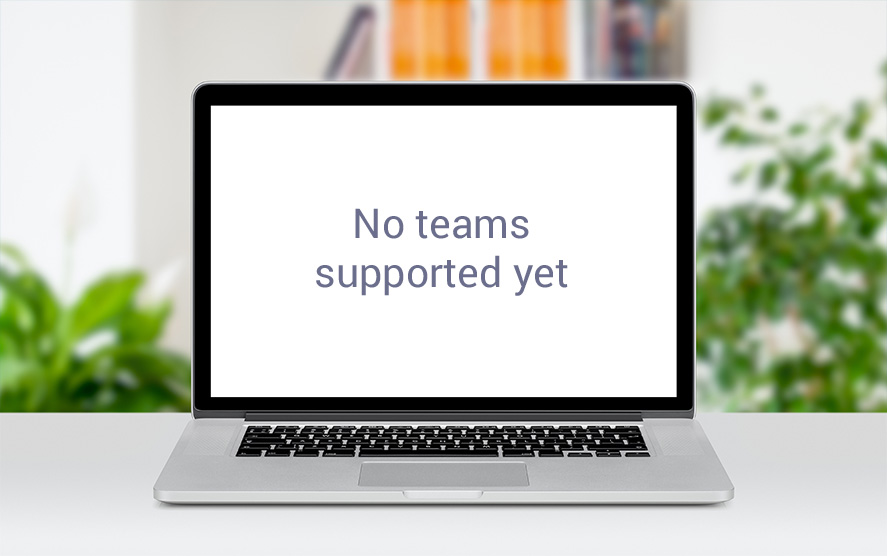
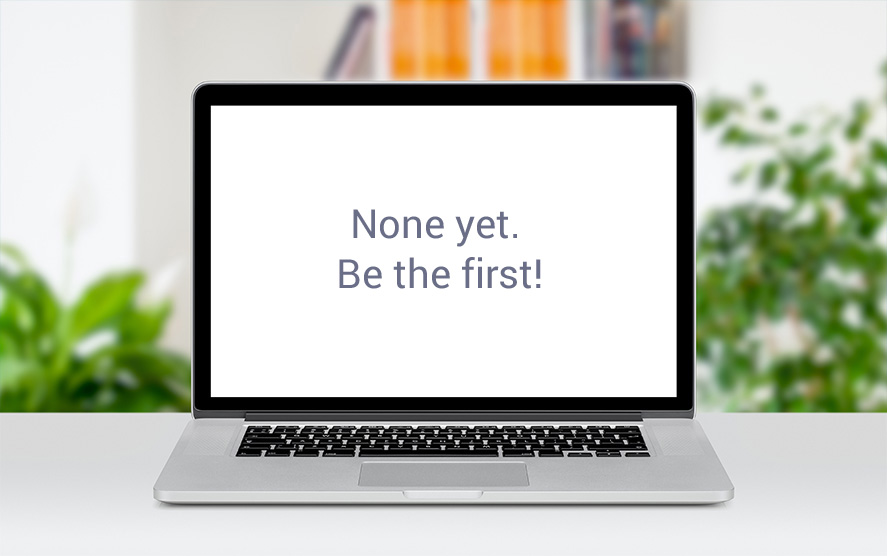
index: Update content

Changed region(s): [[0.3348, 0.4586, 0.6392, 0.5198], [0.3957, 0.3669, 0.6088, 0.4281]]

diff --git a/index.html b/index.html
@@ -64,7 +64,8 @@
             </div>
             <div class="col-1 hidden-xs-down"></div>
             <div class="col-12 col-sm-5 offset-sm-0">
-                <p data-original-title="" title=""><b data-original-title="" title="">Lots of open source teams would love to meet up at conferences or organize sprints on their projects, but for unpaid volunteers, who often spend the daytime studying at university, this often gets stuck at one night of a "wouldn't it be cool…" discussion due to lack of means.&nbsp;</b></p><p data-original-title="" title=""><span style="font-size: 14px;" data-original-title="" title="">We at Kiwi.com decided to create the Sourcelift Fund, which we dedicate to making these meetups happen, to bring communities together, to help boost the progress of FOSS projects, and to reward the tireless contributors with a nice vacation.</span><span style="font-size: 14px;" data-original-title="" title=""></span><span style="font-size: 14px;" data-original-title="" title=""></span></p>
+                <p><b>Most open source teams would love to organise sprints to move their projects forward. They may also dream of attending a specific conference together. However, as they’re often made up of unpaid students, these dreams rarely become a reality.</p>
+                <p class="small">Kiwi.com has decided to do something about this, so we created the SourceLift Fund to bring communities together. By providing flights, we hope to boost the progress of FOSS projects while rewarding tireless contributors with a well-deserved trip at the same time.</p>
             </div>
         </div>
     </div>
@@ -75,24 +76,37 @@
         <h2 class="mb-4">Terms</h2>
         <div class="row">
             <div class="col-12 col-md-6">
-                                    <div class="list-item list-item--circle">
-    <div class="list-item__counter">1</div>
-    <div><p data-original-title="" title="">All applications will be <b data-original-title="" title="">manually judged</b><br data-original-title="" title=""></p></div>
-</div>                                    <div class="list-item list-item--circle">
-    <div class="list-item__counter">2</div>
-    <div><p data-original-title="" title="">The decisions of our team are <b data-original-title="" title="">final</b><br data-original-title="" title=""></p></div>
-</div>                                    <div class="list-item list-item--circle">
-    <div class="list-item__counter">3</div>
-    <div><p data-original-title="" title="">Apply at least a <b>month before</b> the event takes place<br data-original-title="" title=""></p></div>
-</div>                            </div>
+                <div class="list-item list-item--circle">
+                    <div class="list-item__counter">1</div>
+                    <div>Apply at least a <b>month before</b> your event takes place</div>
+                </div>
+                <div class="list-item list-item--circle">
+                    <div class="list-item__counter">2</div>
+                    <div>Teams must be made up of <b>3 – 10 members</b></div>
+                </div>
+                <div class="list-item list-item--circle">
+                    <div class="list-item__counter">3</div>
+                    <div>Each team member may receive a <b>flight voucher</b> of up to <b>200 EUR</b></div>
+                </div>
+                <div class="list-item list-item--circle">
+                    <div class="list-item__counter">4</div>
+                    <div>A <b>team of three</b> is still eligible if two members are on location and only one needs a flight</div>
+                </div>
+            </div>
             <div class="col-12 col-md-6">
-                                    <div class="list-item list-item--circle">
-    <div class="list-item__counter">4</div>
-    <div><p data-original-title="" title=""><b>Projects maintained by businesses or major organizations are not eligible</b> (A few examples of this would be Docker, nginx, Django, Etsy’s statsd, or Apache Airflow)<br data-original-title="" title=""></p></div>
-</div>                                    <div class="list-item list-item--circle">
-    <div class="list-item__counter">5</div>
-    <div><p data-original-title="" title=""><b data-original-title="" title="">Teams of at least 3, and at most 10 people can receive up to 200 EUR flight voucher per person. </b>(Note that if a team has two members on location, and only one needs a flight, they’re still eligible.)<br data-original-title="" title=""></p></div>
-</div>                            </div>
+                <div class="list-item list-item--circle">
+                    <div class="list-item__counter">5</div>
+                    <div>We’ll <b>personally evaluate</b> every application</div>
+                </div>
+                <div class="list-item list-item--circle">
+                    <div class="list-item__counter">6</div>
+                    <div>Projects supported by <b>businesses or major organisations are not eligible</b> (e.g. Docker, nginx, Django, Etsy’s statsd, Apache Airflow, etc)</div>
+                </div>
+                <div class="list-item list-item--circle">
+                    <div class="list-item__counter">7</div>
+                    <div>Our decision is <b>final</b></div>
+                </div>
+            </div>
         </div>
     </div>
 </section>
@@ -101,15 +115,24 @@
     <div class="container">
         <div class="row">
             <div class="col-12 col-md-6 mb-5">
-                <h3>Judging criteria</h3>
+                <h3>What we are looking for</h3>
+                <p class="small">We’ll take the following into consideration when selecting applicants:</p>
                 <ul class="list-arrows small">
-                     <li><p data-original-title="" title=""><b>Popularity</b> of project<br data-original-title="" title=""></p></li>  <li><p data-original-title="" title=""><b>Activity</b> of applicants in the project (not limited to code contributions)<br data-original-title="" title=""></p></li>  <li><p data-original-title="" title="">We will prefer <b>proposals that are related to technologies</b> we use (see list below)<br data-original-title="" title=""></p></li>  <li><p data-original-title="" title="">We will prefer <b>proposals where the destination is an event we ourselves</b> are going to, so that we get to meet you and perhaps help out with the sprint, too (see below).<br data-original-title="" title=""></p></li>                 </ul>
+                    <li><b>Popularity</b> of the project</li>
+                    <li><b>Activity</b> of the applicants in the project (not limited to code contributions)</li>
+                    <li>We’ll give <b>preference to anything related to the technologies</b> we use (see the list below)</li>
+                    <li>Preference will also be given to <b>events and destinations that we’re attending</b>. We’ll get to meet you and possibly contribute to your sprint (see below)</li>
+                </ul>
                 <div class="mb5 hidden-mb-up"></div>
             </div>
             <div class="col-12 col-md-6">
                 <h3>Preferred projects</h3>
                 <ul class="list-arrows small">
-                     <li><p data-original-title="" title=""><b>Language-agnostic developer tools</b> (such as text editors or package managers)<br data-original-title="" title=""></p></li>  <li><p data-original-title="" title=""><b>Python-related</b> projects (libraries, tools, etc.)<br data-original-title="" title=""></p></li>  <li><p data-original-title="" title=""><b data-original-title="" title="">Node.js-related</b> projects<br data-original-title="" title=""></p></li>  <li><p data-original-title="" title=""><b>PostgreSQL-related</b> projects<br data-original-title="" title=""></p></li>                 </ul>
+                    <li><b>Language-agnostic</b> developer tools (e.g. text editors or package managers)</li>
+                    <li><b>Python-related</b> projects (libraries, tools, etc)</li>
+                    <li><b>Node.js-related</b> projects</li>
+                    <li><b>PostgreSQL-related</b> projects</li>
+                </ul>
             </div>
         </div>
 
@@ -118,7 +141,8 @@
         <div class="row justify-content-center">
             <div class="col-12 col-sm-10 col-md-8 text-center">
                 <h3 class="text-center">Events we are attending</h3>
-                <div>For a general overview of events we are attending please see <a href="http://bit.ly/2pzdLuP" target="_blank" data-original-title="" title=""><b data-original-title="" title="">Google calendar</b></a> of IT Events, subscribe to our newsletter and follow our Devs community on <b data-original-title="" title=""><a href="https://www.facebook.com/codekiwicom/" target="_blank" data-original-title="" title="">Facebook</a></b> and <a href="https://twitter.com/codekiwicom" target="_blank" data-original-title="" title=""><b data-original-title="" title="">Twitter</b></a></div>
+                <div>Add our <a href="http://bit.ly/2pzdLuP"><b>Google Calendar</b></a> to see which events we’re attending. Also, subscribe to our Newsletter and join our community of Devs on
+                    <a href="https://www.facebook.com/codekiwicom/"><b>Facebook</b></a> and <a href="https://twitter.com/codekiwicom"><b>Twitter</b></a>. </div>
                 <a href="https://goo.gl/forms/1t5dtYBg44TWzTuj1" class="un-none composite button button--apply" target="_blank">
                     <div class="button__plane"></div>
                     <span>Apply</span>
@@ -152,41 +176,41 @@
 
 <section id="faq">
     <div class="container">
-        <h2>FAQ & Contact</h2>
+        <h2>FAQ and Contact</h2>
 
         <div class="row">
             <div class="col-12 col-sm-6">
-                                    <div class="faq-qa">
-                        <div class="list-item faq-item faq-item--question">
-                            <div class="faq-symbol">Q</div>
-                            <div class="faq-text"><p data-original-title="" title="">Does this aid apply only for students?<br data-original-title="" title=""></p></div>
-                        </div>
-                        <div class="list-item faq-item faq-item--answer">
-                            <div class="faq-symbol">A</div>
-                            <div class="faq-text"><p data-original-title="" title="">No.</p></div>
-                        </div>
+                <div class="faq-qa">
+                    <div class="list-item faq-item faq-item--question">
+                        <div class="faq-symbol">Q</div>
+                        <div class="faq-text"><p>Are these flights for students only?</p></div>
                     </div>
-                                    <div class="faq-qa">
-                        <div class="list-item faq-item faq-item--question">
-                            <div class="faq-symbol">Q</div>
-                            <div class="faq-text"><p data-original-title="" title="">Who will do the judging?<br data-original-title="" title=""></p></div>
-                        </div>
-                        <div class="list-item faq-item faq-item--answer">
-                            <div class="faq-symbol">A</div>
-                            <div class="faq-text"><p data-original-title="" title="">Kiwi.com engineers involved in OSS communities<br data-original-title="" title=""></p></div>
-                        </div>
+                    <div class="list-item faq-item faq-item--answer">
+                        <div class="faq-symbol">A</div>
+                        <div class="faq-text"><p>No.</p></div>
                     </div>
-                                    <div class="faq-qa">
-                        <div class="list-item faq-item faq-item--question">
-                            <div class="faq-symbol">Q</div>
-                            <div class="faq-text"><p data-original-title="" title="">How long is the process, when can I expect results?<br data-original-title="" title=""></p></div>
-                        </div>
-                        <div class="list-item faq-item faq-item--answer">
-                            <div class="faq-symbol">A</div>
-                            <div class="faq-text"><p data-original-title="" title="">Expect results within two weeks after your application.<br data-original-title="" title=""></p></div>
-                        </div>
+                </div>
+                <div class="faq-qa">
+                    <div class="list-item faq-item faq-item--question">
+                        <div class="faq-symbol">Q</div>
+                        <div class="faq-text"><p>Who will judge the applications?</p></div>
                     </div>
-                            </div>
+                    <div class="list-item faq-item faq-item--answer">
+                        <div class="faq-symbol">A</div>
+                        <div class="faq-text"><p>Kiwi.com engineers that are involved in OSS communities</p></div>
+                    </div>
+                </div>
+                <div class="faq-qa">
+                    <div class="list-item faq-item faq-item--question">
+                        <div class="faq-symbol">Q</div>
+                        <div class="faq-text"><p>When can I expect a response?</p></div>
+                    </div>
+                    <div class="list-item faq-item faq-item--answer">
+                        <div class="faq-symbol">A</div>
+                        <div class="faq-text"><p>We’ll let you know our decision within two weeks of receiving your application.</p></div>
+                    </div>
+                </div>
+            </div>
             <div class="col-10 offset-1 col-sm-6 offset-sm-0">
                 <img src="images/faq-image.jpg" class="img-fluid" alt="faq">
             </div>
@@ -197,7 +221,7 @@
 <footer>
     <div class="container">
         <div class="text-center mb-3">
-            <p data-original-title="" title=""><b>For more information feel free to contact <a href="mailto:jan.bleha@kiwi.com">jan.bleha@kiwi.com</a></b><br data-original-title="" title=""></p>
+            <p><b>Contact <a href="mailto:sourcelift@kiwi.com">sourcelift@kiwi.com</a> for more info.</p>
         </div>
         <div class="text-center mb-3">
             <a href="https://www.facebook.com/codekiwicom/" class="d-inline-block button--social button--fb mr-2"></a>
